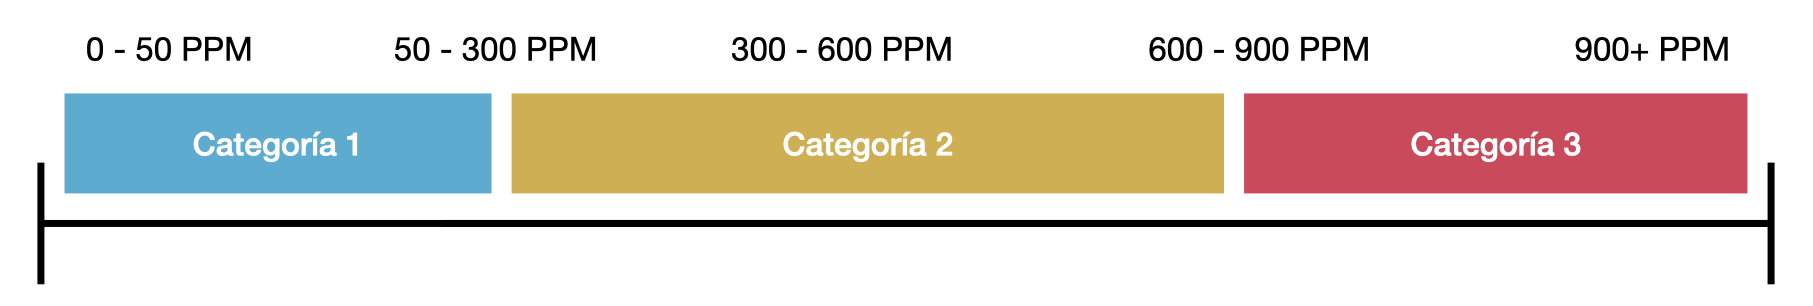
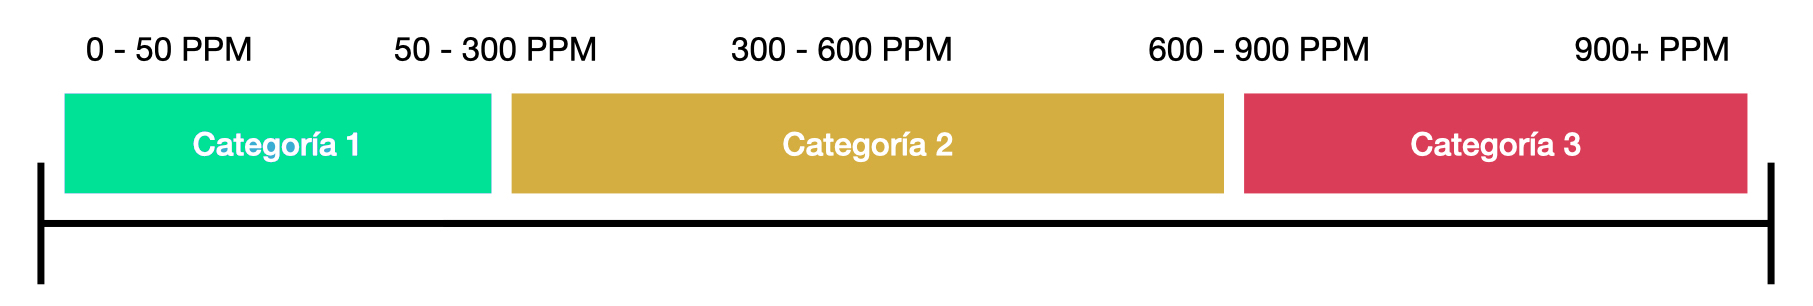
ColorPPM

Changed region(s): [[0.0309, 0.2941, 0.278, 0.6471]]

diff --git a/resources/js/Pages/Dashboard.jsx b/resources/js/Pages/Dashboard.jsx
@@ -238,18 +238,32 @@ export default function Dashboard({ auth, user , qualityData , tankData }) {
                 >
                     {/* Contenedor flex para organizar el contenido en columna y centrado */}
                     <div className="flex flex-col items-center gap-6">
-                        {/* Párrafo de advertencia con palabras clave resaltadas en negrita */}
-                        <p className="text-lg">
-                            <span className="font-bold">Siempre</span> hierve el agua y toma precauciones con su consumo. La medición de calidad presentada{' '}
+                        
+
+                        <p className="text-lg mt-4">
+                            <span className="font-bold">Siempre</span> hierve el agua y toma precauciones con su consumo. 
+                            La medición de calidad presentada{' '}
                             <span className="font-bold">no detecta</span> ni toma en cuenta todos los tipos de contaminantes ni bacterias.
                         </p>
 
-                        {/* Imagen informativa que muestra la escala de PPM */}
+
+                        {/* Categorías de calidad del agua */}
+                        <div className="flex flex-col gap-4 w-full items-center">
+                            <div className="text-[#00E396] text-lg">
+                                Categoría 1 - Agua pura o con bajo contenido de minerales y metales.
+                            </div>
+                        <div className="text-[#FEB019] text-lg">
+                            Categoría 2 - Agua con características de agua tratada.
+                            </div>
+                            <div className="text-[#FF4560] text-lg">
+                                Categoría 3 - Agua con alto contenido de minerales y posibles metales.
+                            </div>
+                        </div>
+
                         <img
                             src="/assets/Information/tds_agua.jpeg"
                             alt="Escala de PPM del agua"
-                            // Ancho completo con máximo de 768px y margen superior
-                            className="w-full max-w-3xl mt-4"
+                            className="w-full max-w-3xl mt-12"
                         />
                     </div>
                 </Modal>
